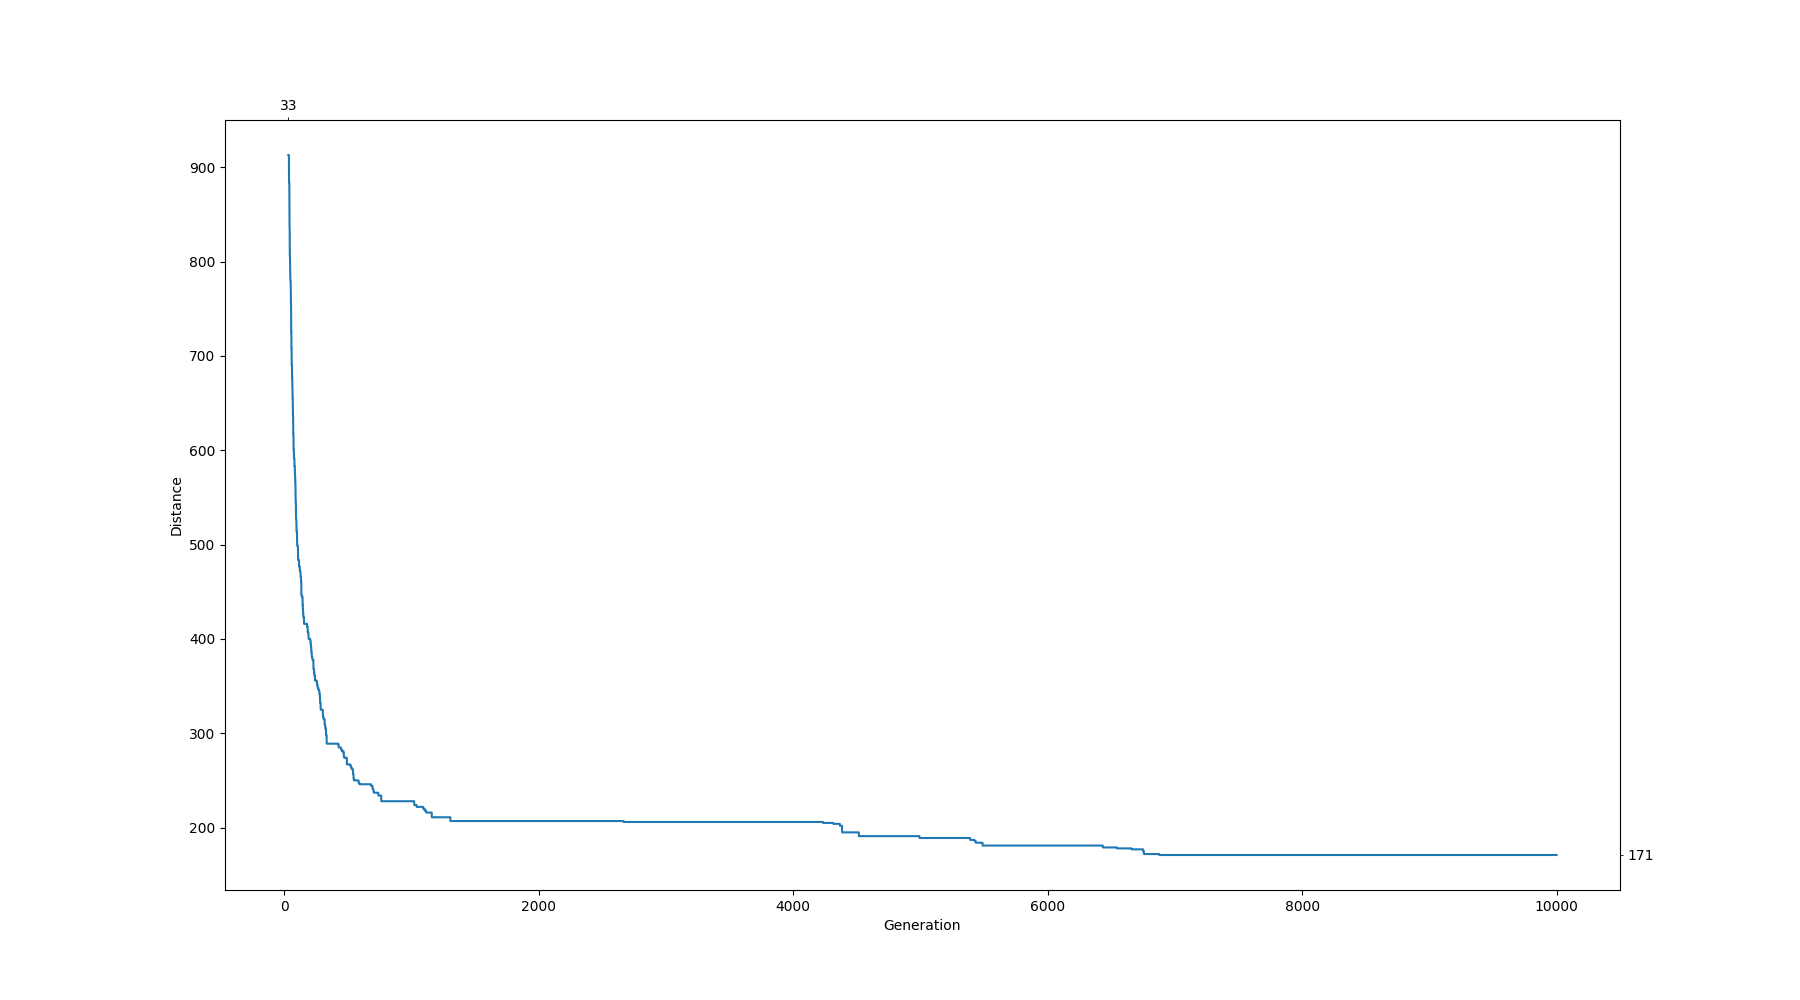
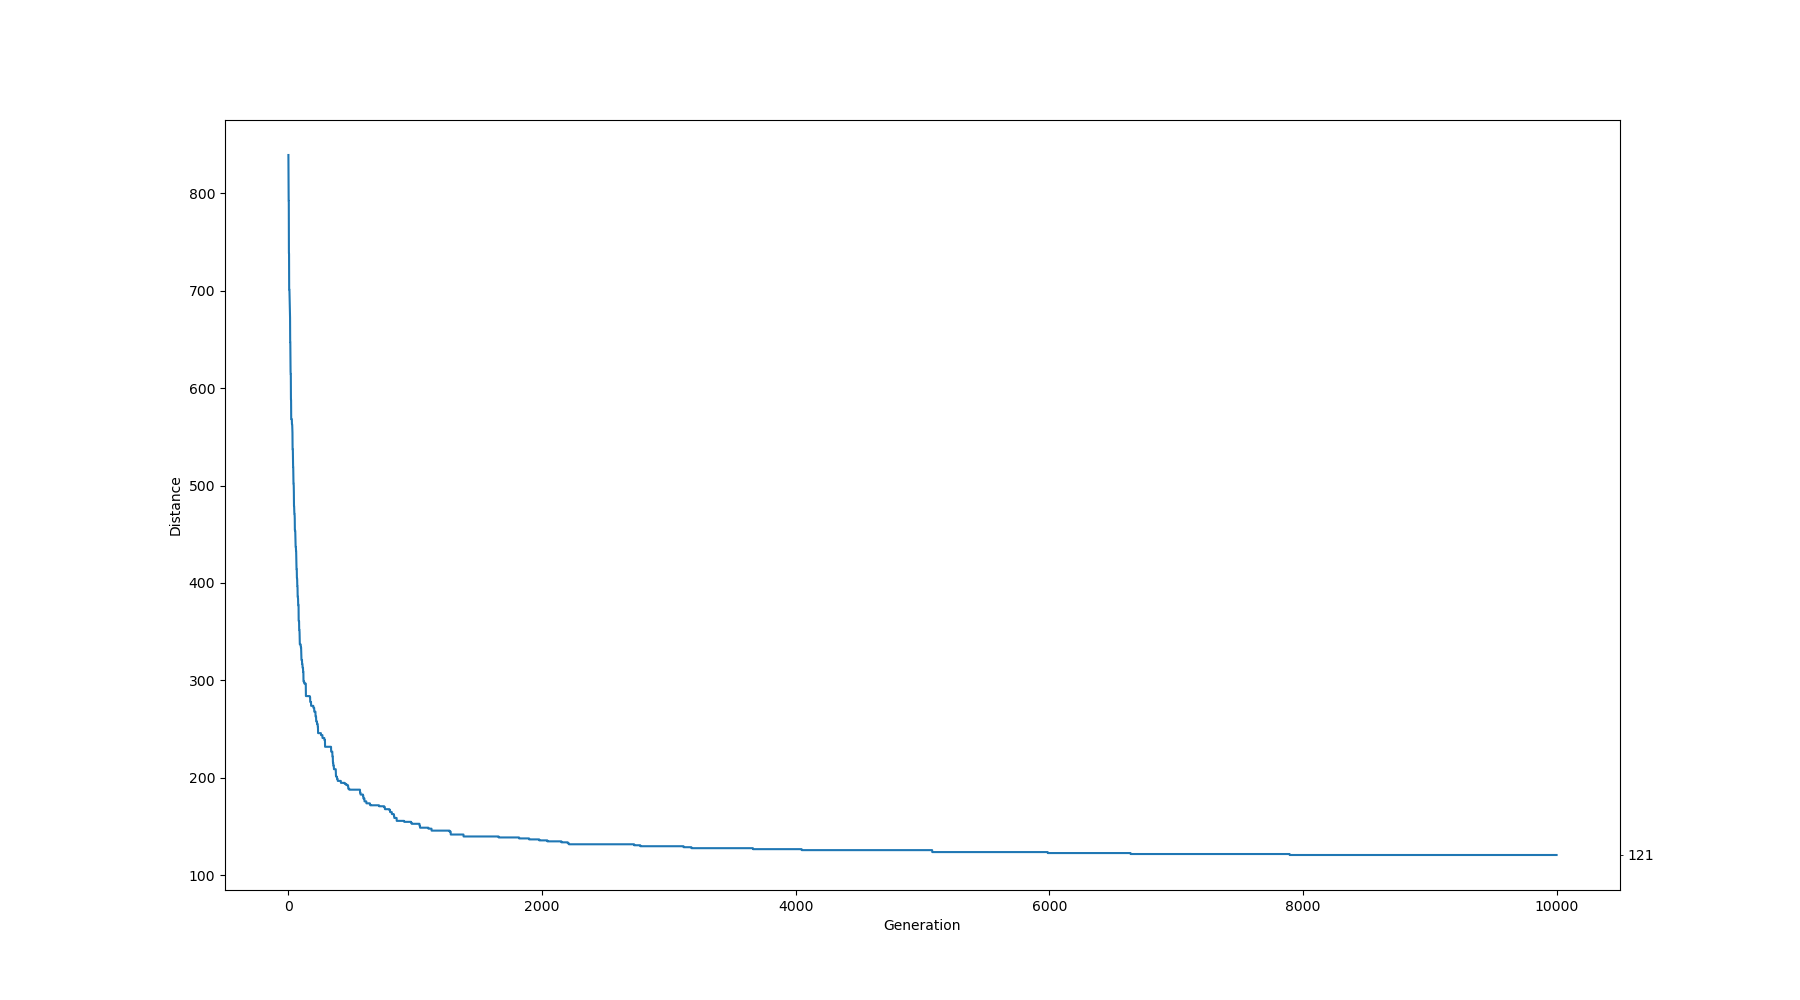
Update charts for full graphs

diff --git a/Dokumentacja.md b/Dokumentacja.md
@@ -46,10 +46,10 @@ Opis znajduje się w pliku [Specyfikacja](Specyfikacja.md)
 
 | Graf | Wynik | Generacje | Czas Wykonania | Wykres |
 |---|---|---|---|---|
-|V=10 E=36|58|2000|1s|![Chart10](charts/ch10.png)|
-|V=50 E=980|92|10000|16s|![Chart50](charts/ch50.png)|
-|V=100 E=4455|171|10000|1m 2s|![Chart100](charts/ch100.png)|
-|V=500 E=124750|1006|1000|14m 30s|![Chart500](charts/ch500.png)|
+|V=10|53|2000|1s|![Chart10](charts/ch10.png)|
+|V=50|90|10000|18s|![Chart50](charts/ch50.png)|
+|V=100|121|10000|1m 12s|![Chart100](charts/ch100.png)|
+|V=500|1006|1000|14m 30s|![Chart500](charts/ch500.png)|
 
 ### 6. Wnioski, możliwe usprawnienia
 
